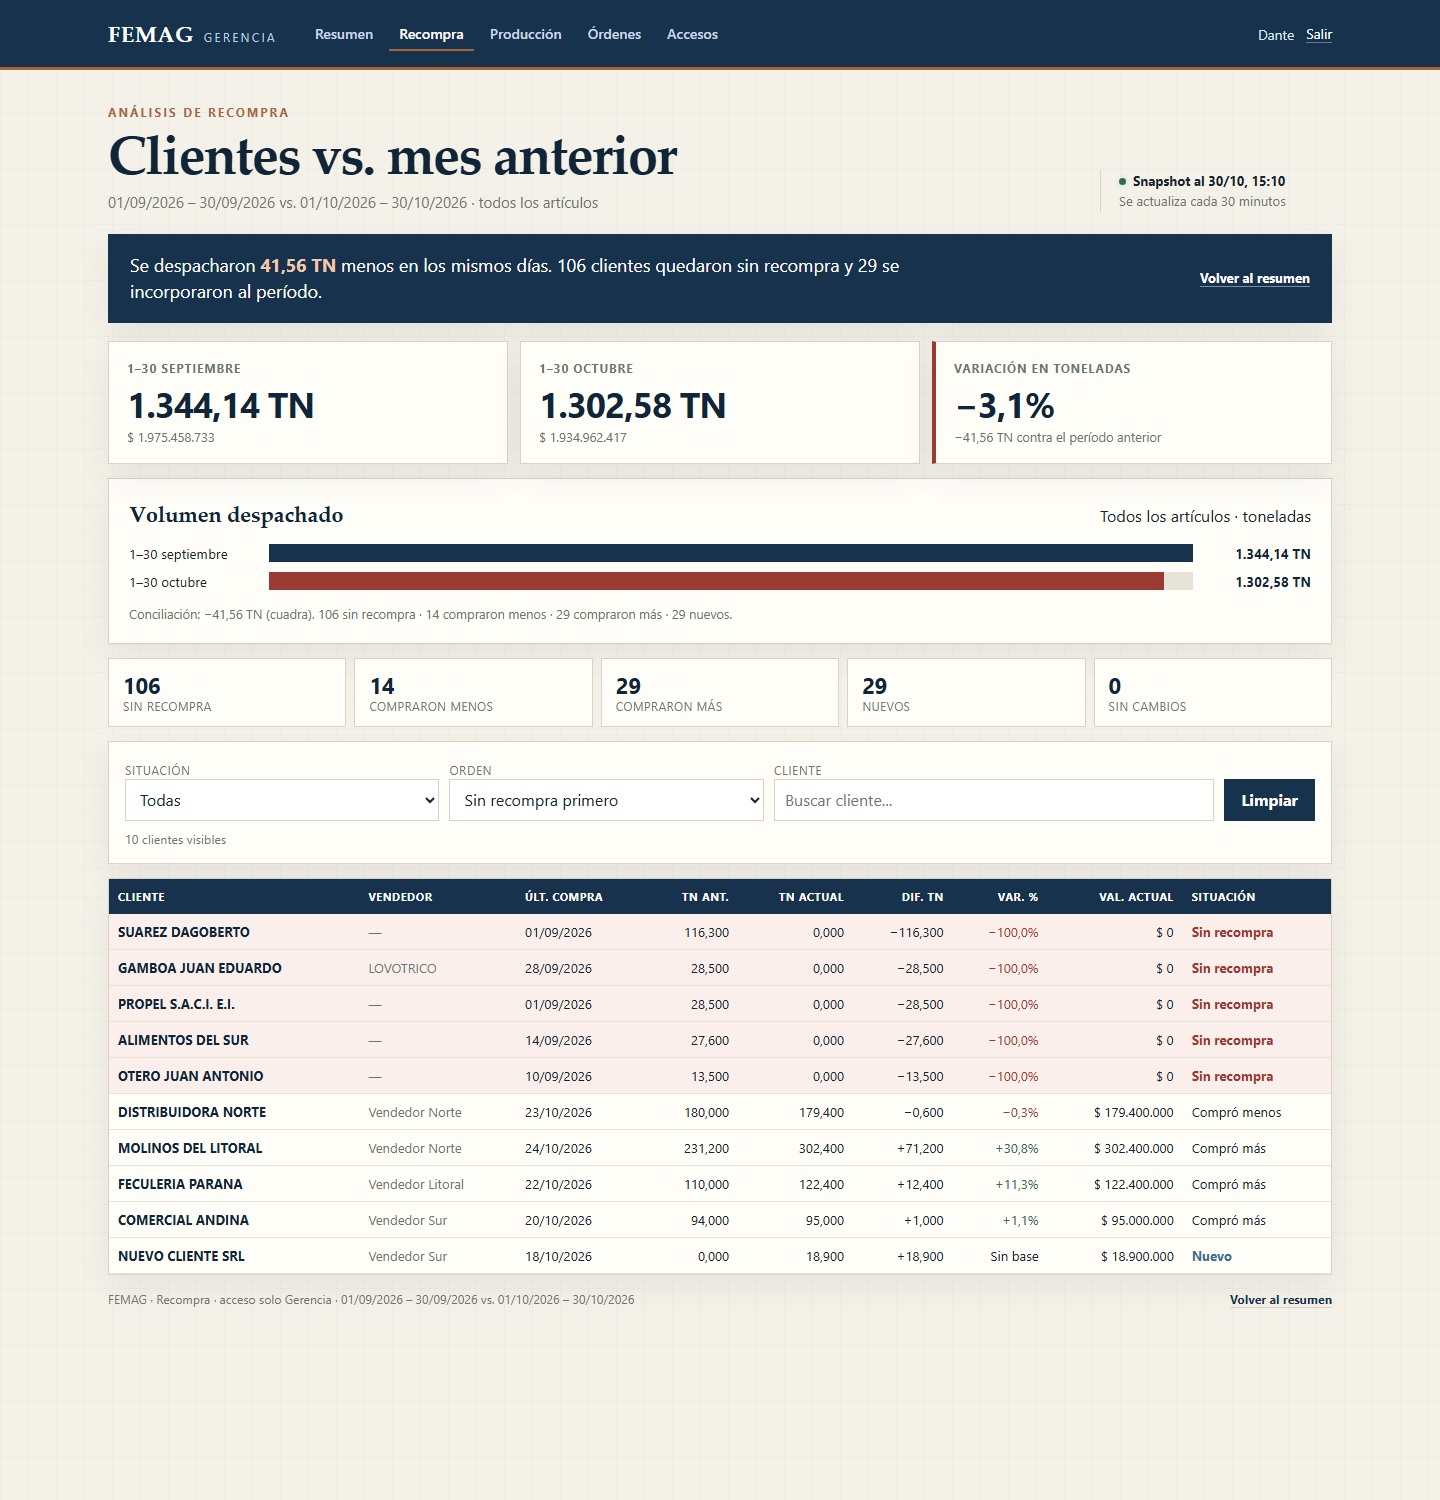
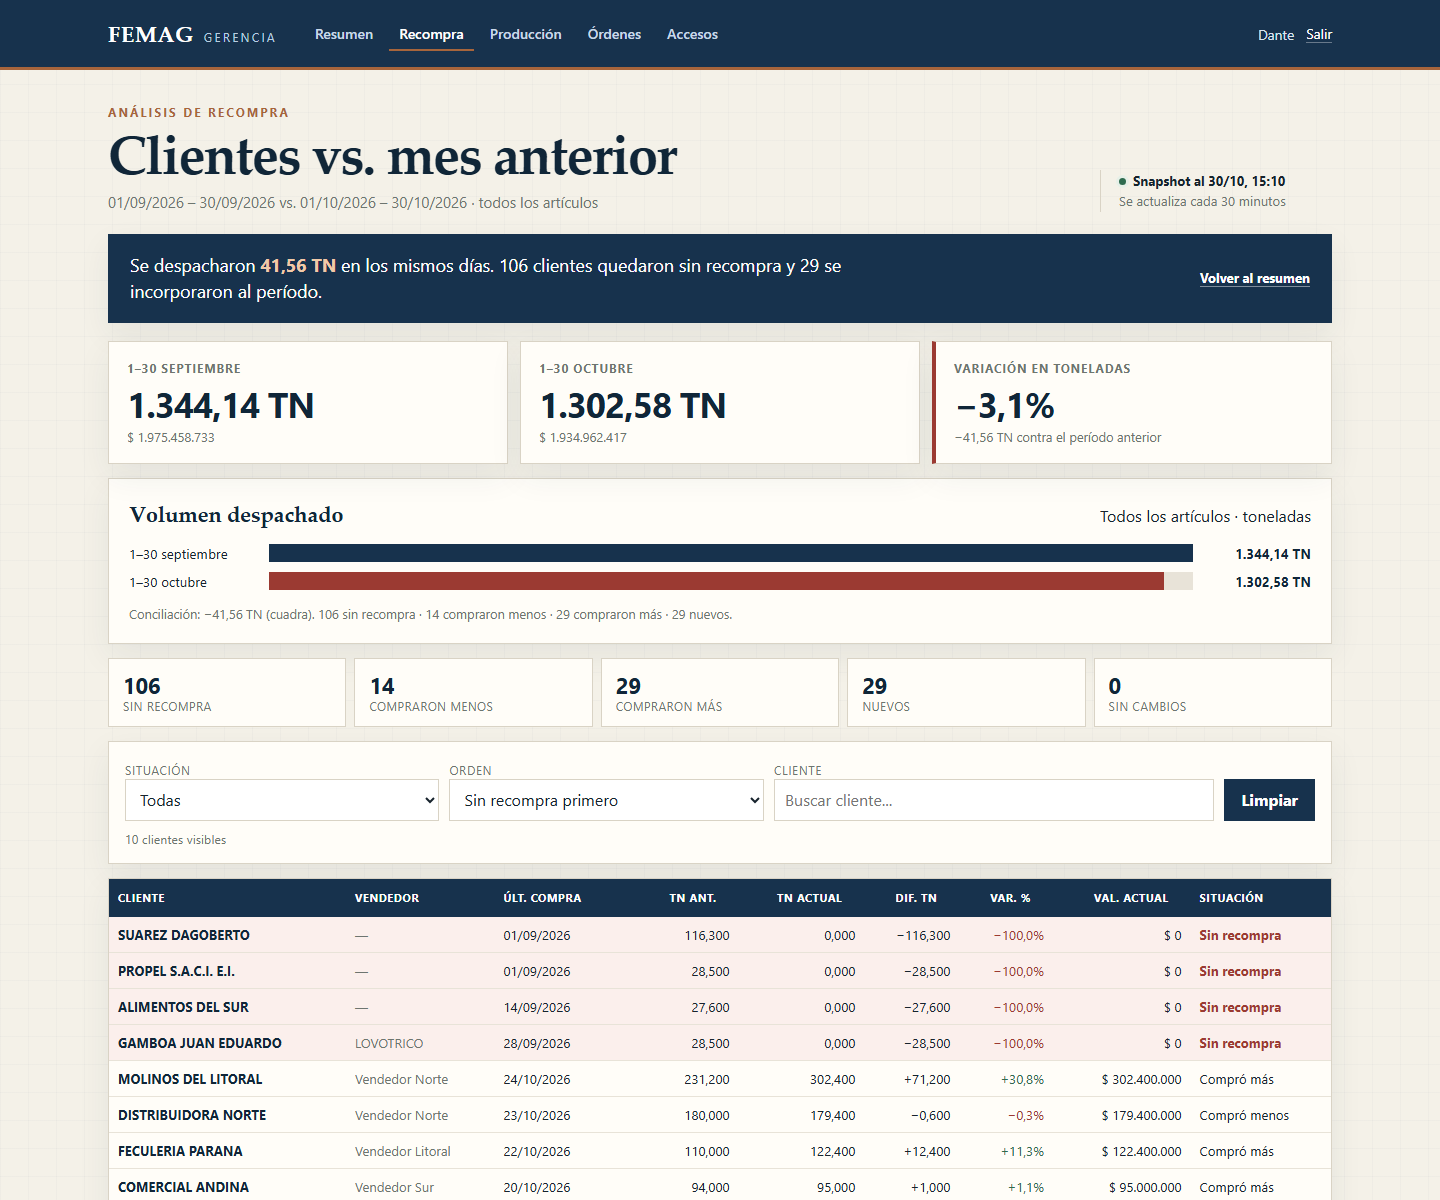
feat(#837): ordenar la tabla de recompra por columna

diff --git a/webapp/templates/managerial_repurchase.html b/webapp/templates/managerial_repurchase.html
@@ -129,6 +129,7 @@
           <label for="filtro-orden">Orden</label>
           <select id="filtro-orden">
             <option value="default">Sin recompra primero</option>
+            <option value="custom">Orden por columna</option>
             <option value="previous">Mayor TN anterior</option>
             <option value="current">Mayor TN actual</option>
             <option value="diff">Mayor caída</option>
@@ -151,20 +152,20 @@
       <table class="rep-table" id="tabla-recompra">
         <thead>
           <tr>
-            <th>Cliente</th>
-            <th>Vendedor</th>
-            <th>Últ. compra</th>
-            <th class="num">TN ant.</th>
-            <th class="num">TN actual</th>
-            <th class="num">Dif. TN</th>
-            <th class="num">Var. %</th>
-            <th class="num">Val. actual</th>
-            <th>Situación</th>
+            <th aria-sort="none"><button type="button" class="sort-button" data-sort="client">Cliente<span class="sort-indicator" aria-hidden="true"></span></button></th>
+            <th aria-sort="none"><button type="button" class="sort-button" data-sort="salesperson">Vendedor<span class="sort-indicator" aria-hidden="true"></span></button></th>
+            <th aria-sort="none"><button type="button" class="sort-button" data-sort="last">Últ. compra<span class="sort-indicator" aria-hidden="true"></span></button></th>
+            <th class="num" aria-sort="none"><button type="button" class="sort-button" data-sort="prev">TN ant.<span class="sort-indicator" aria-hidden="true"></span></button></th>
+            <th class="num" aria-sort="none"><button type="button" class="sort-button" data-sort="current">TN actual<span class="sort-indicator" aria-hidden="true"></span></button></th>
+            <th class="num" aria-sort="none"><button type="button" class="sort-button" data-sort="diff">Dif. TN<span class="sort-indicator" aria-hidden="true"></span></button></th>
+            <th class="num" aria-sort="none"><button type="button" class="sort-button" data-sort="variation">Var. %<span class="sort-indicator" aria-hidden="true"></span></button></th>
+            <th class="num" aria-sort="none"><button type="button" class="sort-button" data-sort="total">Val. actual<span class="sort-indicator" aria-hidden="true"></span></button></th>
+            <th aria-sort="none"><button type="button" class="sort-button" data-sort="status">Situación<span class="sort-indicator" aria-hidden="true"></span></button></th>
           </tr>
         </thead>
         <tbody>
           {% for row in dashboard.rows %}
-          <tr class="status-{{ row.status }}" data-status="{{ row.status }}" data-client="{{ row.client|lower }}" data-prev="{{ row.previous_raw }}" data-current="{{ row.current_raw }}" data-diff="{{ row.diff_raw }}" data-variation="{{ row.variation }}">
+          <tr class="status-{{ row.status }}" data-status="{{ row.status }}" data-client="{{ row.client|lower }}" data-salesperson="{{ row.salesperson|lower }}" data-last="{{ row.last_raw }}" data-prev="{{ row.previous_raw }}" data-current="{{ row.current_raw }}" data-diff="{{ row.diff_raw }}" data-variation="{{ row.variation_raw }}" data-total="{{ row.total_raw }}">
             <td class="client">{{ row.client }}</td>
             <td class="muted-cell">{{ row.salesperson }}</td>
             <td>{{ row.last_purchase }}</td>
@@ -207,8 +208,38 @@
         compro_mas: 3,
         nuevo: 4
       };
+      let sortKey = null;
+      let sortDirection = 1;
 
       const normalize = (value) => (value || "").toLowerCase().normalize("NFD").replace(/[\u0300-\u036f]/g, "");
+      const numeric = (value) => Number(value || 0);
+      const compareText = (a, b) => normalize(a).localeCompare(normalize(b), "es");
+
+      function compareRows(a, b, key, direction) {
+        let result = 0;
+        if (key === "client") result = compareText(a.dataset.client, b.dataset.client);
+        else if (key === "salesperson") result = compareText(a.dataset.salesperson, b.dataset.salesperson);
+        else if (key === "last") result = String(a.dataset.last || "").localeCompare(String(b.dataset.last || ""));
+        else if (key === "status") result = statusOrder[a.dataset.status] - statusOrder[b.dataset.status];
+        else result = numeric(a.dataset[key]) - numeric(b.dataset[key]);
+        if (result === 0) result = compareText(a.dataset.client, b.dataset.client);
+        return result * direction;
+      }
+
+      function updateIndicators() {
+        document.querySelectorAll(".rep-table th[aria-sort]").forEach((th) => {
+          th.setAttribute("aria-sort", "none");
+          const indicator = th.querySelector(".sort-indicator");
+          if (indicator) indicator.textContent = "";
+        });
+        if (!sortKey) return;
+        const button = document.querySelector(`.sort-button[data-sort="${sortKey}"]`);
+        if (!button) return;
+        const th = button.closest("th");
+        th.setAttribute("aria-sort", sortDirection === 1 ? "ascending" : "descending");
+        const indicator = button.querySelector(".sort-indicator");
+        if (indicator) indicator.textContent = sortDirection === 1 ? "▲" : "▼";
+      }
 
       function apply() {
         const query = normalize(search.value.trim());
@@ -220,25 +251,49 @@
           return true;
         });
         visible.sort((a, b) => {
-          if (selectedOrder === "previous") return Number(b.dataset.prev) - Number(a.dataset.prev);
-          if (selectedOrder === "current") return Number(b.dataset.current) - Number(a.dataset.current);
-          if (selectedOrder === "diff") return Number(a.dataset.diff) - Number(b.dataset.diff);
-          if (selectedOrder === "client") return a.dataset.client.localeCompare(b.dataset.client, "es");
+          if (sortKey) return compareRows(a, b, sortKey, sortDirection);
+          if (selectedOrder === "previous") return numeric(b.dataset.prev) - numeric(a.dataset.prev) || compareText(a.dataset.client, b.dataset.client);
+          if (selectedOrder === "current") return numeric(b.dataset.current) - numeric(a.dataset.current) || compareText(a.dataset.client, b.dataset.client);
+          if (selectedOrder === "diff") return numeric(a.dataset.diff) - numeric(b.dataset.diff) || compareText(a.dataset.client, b.dataset.client);
+          if (selectedOrder === "client") return compareText(a.dataset.client, b.dataset.client);
           return statusOrder[a.dataset.status] - statusOrder[b.dataset.status]
-            || Number(b.dataset.prev) - Number(a.dataset.prev)
-            || a.dataset.client.localeCompare(b.dataset.client, "es");
+            || numeric(b.dataset.prev) - numeric(a.dataset.prev)
+            || compareText(a.dataset.client, b.dataset.client);
         });
         tbody.replaceChildren(...visible);
         count.textContent = String(visible.length);
       }
 
-      [status, order].forEach((element) => element.addEventListener("change", apply));
+      status.addEventListener("change", apply);
+      order.addEventListener("change", () => {
+        sortKey = null;
+        updateIndicators();
+        apply();
+      });
+      document.querySelectorAll(".sort-button").forEach((button) => {
+        button.addEventListener("click", () => {
+          const key = button.dataset.sort;
+          if (sortKey === key) {
+            sortDirection *= -1;
+          } else {
+            sortKey = key;
+            sortDirection = ["prev", "current", "diff", "variation", "total"].includes(key) ? -1 : 1;
+          }
+          order.value = "custom";
+          updateIndicators();
+          apply();
+        });
+      });
       search.addEventListener("input", apply);
       reset.addEventListener("click", () => {
         status.value = "";
         order.value = "default";
         search.value = "";
+        sortKey = null;
+        updateIndicators();
         apply();
+      });
+      apply();
       });
       apply();
     })();

diff --git a/webapp/static/repurchase.css b/webapp/static/repurchase.css
@@ -140,12 +140,33 @@
   background: var(--navy);
   color: #fff;
   text-align: left;
-  padding: 10px 9px;
+  padding: 0;
   font-size: .68rem;
   letter-spacing: .06em;
   text-transform: uppercase;
   white-space: nowrap;
 }
+.rep-table th.num { text-align: right; }
+.sort-button {
+  display: flex;
+  align-items: center;
+  gap: 6px;
+  width: 100%;
+  min-height: 38px;
+  border: 0;
+  background: transparent;
+  color: inherit;
+  padding: 10px 9px;
+  font: inherit;
+  letter-spacing: inherit;
+  text-transform: inherit;
+  text-align: inherit;
+  cursor: pointer;
+}
+.rep-table th.num .sort-button { justify-content: flex-end; }
+.sort-button:hover, .sort-button:focus-visible { background: rgba(255, 255, 255, .12); outline: none; }
+.sort-indicator { min-width: .8em; color: #f1c9a8; font-size: .8em; }
+.sort-indicator:empty::before { content: "↕"; opacity: .45; }
 .rep-table td {
   padding: 9px;
   border-bottom: 1px solid var(--line-soft);

diff --git a/webapp/managerial_repurchase_service.py b/webapp/managerial_repurchase_service.py
@@ -58,9 +58,14 @@ def _date_label(value) -> str:
     parsed = as_datetime(value)
     if parsed is None:
         return "—"
-    if isinstance(parsed, datetime):
-        return parsed.strftime("%d/%m/%Y")
     return parsed.strftime("%d/%m/%Y")
+
+
+def _iso_date(value) -> str:
+    parsed = as_datetime(value)
+    if parsed is None:
+        return ""
+    return parsed.strftime("%Y-%m-%d")
 
 
 class ManagerialRepurchaseService:
@@ -208,6 +213,16 @@ def _build_view(payload: dict) -> dict:
                 "previous_raw": float(row.get("previous_tonnes") or 0),
                 "current_raw": float(row.get("current_tonnes") or 0),
                 "diff_raw": float(row.get("diff_tonnes") or 0),
+                "variation_raw": (
+                    float(row.get("variation_percent"))
+                    if row.get("variation_percent") is not None
+                    else -1_000_000_000
+                ),
+                "last_raw": _iso_date(
+                    row.get("current_last_date")
+                    or row.get("previous_last_date")
+                ),
+                "total_raw": float(row.get("current_total") or 0),
                 "current_total": _money_full(row.get("current_total")),
                 "status": status,
                 "status_label": STATUS_LABELS.get(status, status),

diff --git a/tests/test_issue_837_managerial_repurchase.py b/tests/test_issue_837_managerial_repurchase.py
@@ -216,6 +216,9 @@ def test_repurchase_route_renders_for_admin(db):
     assert b"Sin recompra" in response.data
     assert b"filtro-cliente" in response.data
     assert b"tabla-recompra" in response.data
+    assert b'data-sort="client"' in response.data
+    assert b'data-sort="total"' in response.data
+    assert b'data-last="2026-09-12"' in response.data
 
 
 def test_repurchase_route_is_available_to_gerencia(db):
